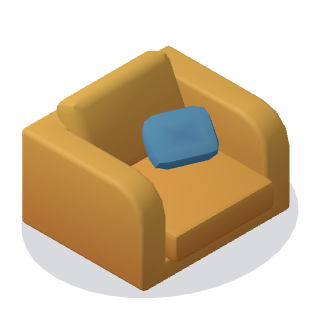
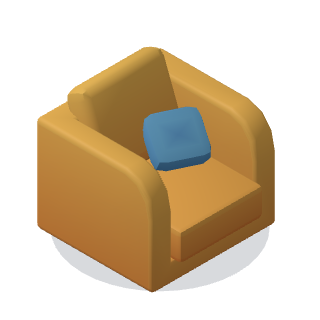
Fix lounge chair size: 0.9 m footprint, fitted to the footprint
The library armchair was fitted by height alone, so it was drawn about 1.2 m
wide while collisions and occupancy used a 0.6 m footprint. Use a real 0.9 m
square footprint and stretch the model to it. Regenerate its isometric icon
and the contact sheet, and remove the lounge chair's known-mismatch allowance
from the bounding-box test.

Claude-Session: https://claude.ai/code/session_01VbLrW7odCSmEqDq3pYYvr4

diff --git a/src/three/modelLibrary.ts b/src/three/modelLibrary.ts
@@ -30,7 +30,9 @@ export interface ModelSpec {
 export const MODEL_SPECS: Partial<Record<AssetType, ModelSpec>> = {
   // Both chairs face +Z in the library; the app's convention is +X, hence the +90° yaw.
   chair_office: { file: 'chair_C.gltf', fit: 'height', height: 0.95, yaw: Math.PI / 2 },
-  chair_lounge: { file: 'armchair_pillows.gltf', fit: 'height', height: 0.85, yaw: Math.PI / 2 },
+  // Stretched to a real 0.9 m square footprint: the library armchair is far wider than deep-in-height,
+  // so fitting it by height alone drew it ~1.2 m wide, twice the footprint used for collisions.
+  chair_lounge: { file: 'armchair_pillows.gltf', fit: 'stretch', height: 0.85, yaw: Math.PI / 2 },
   desk_single: { file: 'table_small.gltf', fit: 'stretch', height: 0.75 },
   desk_cluster_4: { file: 'table_medium.gltf', fit: 'stretch', height: 0.75 },
   desk_cluster_6: { file: 'table_medium_long.gltf', fit: 'stretch', height: 0.75 },

diff --git a/tests/unit/boundingBox.test.ts b/tests/unit/boundingBox.test.ts
@@ -71,13 +71,11 @@ const SCALED_FOOTPRINT: Partial<Record<PlacedAsset['type'], { x: number; z: numb
 /**
  * How far a 'height'-fitted model may overhang its declared footprint before the
  * collision and occupancy maths stop matching what is drawn. Everything else must stay
- * within 5%. The two chairs are KNOWN to be larger than their footprint: the library
- * armchair is a wide model scaled to a real 0.85 m height. Tighten these when the
+ * within 5%. The office chair and plant pot are KNOWN to be larger than their footprint. Tighten these when the
  * footprints or models are corrected; the test fails if they get worse.
  */
 const MAX_OVERHANG: Partial<Record<PlacedAsset['type'], number>> = {
   chair_office: 1.25,
-  chair_lounge: 2.1,
   plant_pot: 1.45,
 };
 const DEFAULT_OVERHANG = 1.05;

diff --git a/src/utils/geometry.ts b/src/utils/geometry.ts
@@ -59,8 +59,10 @@ export function getAssetSize(asset: PlacedAsset): { width: number; depth: number
     case 'conference_table':
       return { width: scaleX, depth: scaleZ };
     case 'chair_office':
-    case 'chair_lounge':
       return { width: 0.6, depth: 0.6 };
+    case 'chair_lounge':
+      // Real lounge armchairs are about 0.9 m square (the procedural fallback is 1.0 x 0.9).
+      return { width: 0.9, depth: 0.9 };
     case 'reception_desk':
       return { width: 2.4, depth: 1.2 };
     case 'whiteboard':
